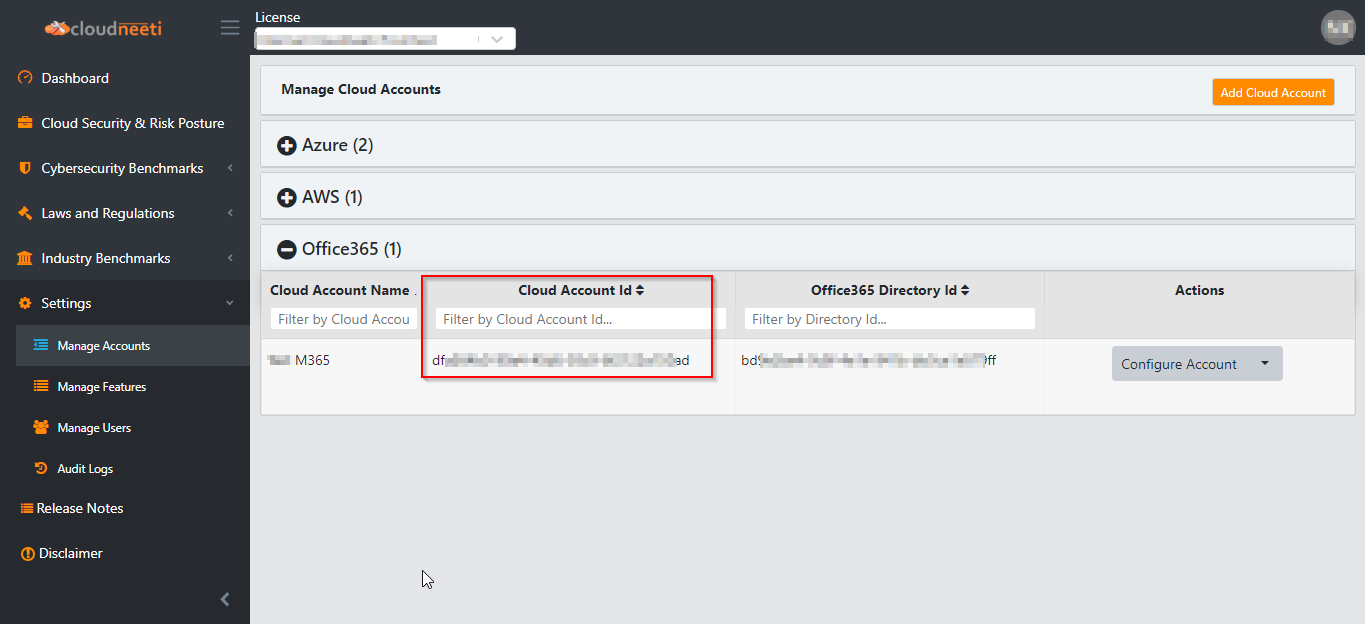
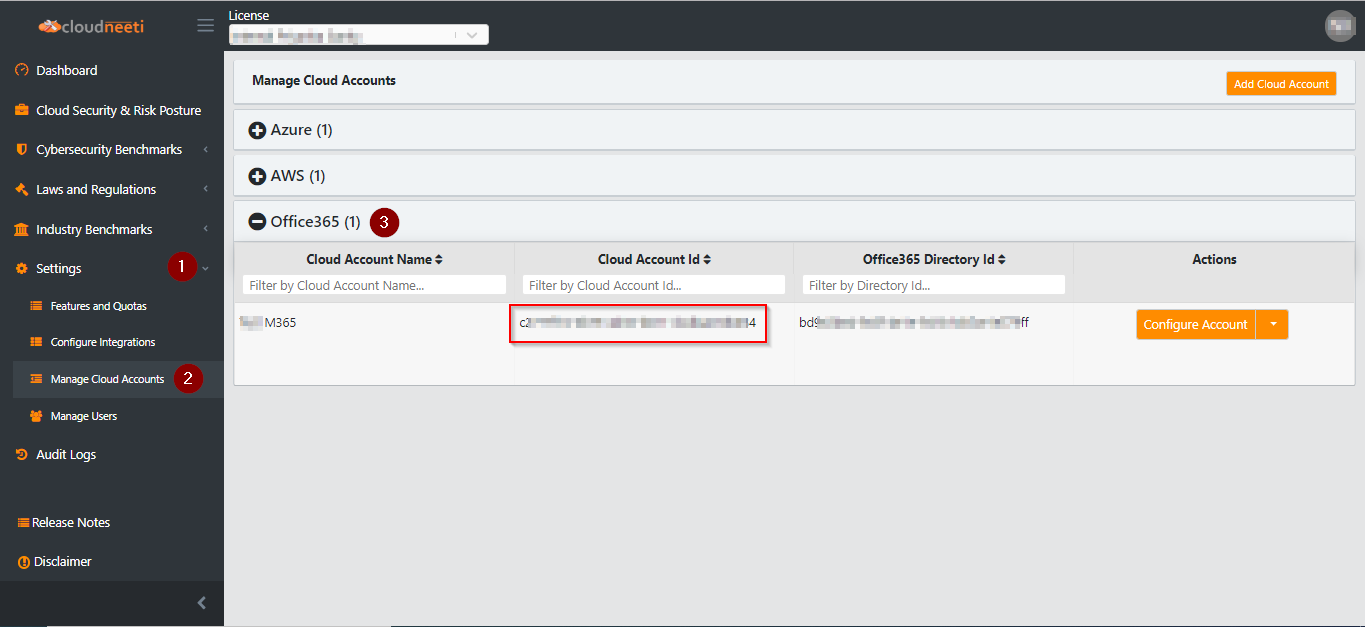
Task 11166 : Update AWS and O365 onboarding documents

diff --git a/docs/onboardingGuide/amazonWebServiceAccounts.md b/docs/onboardingGuide/amazonWebServiceAccounts.md
@@ -36,7 +36,7 @@ AWS **Administrator** role is required for granting Cloudneeti application acces
 entity with the SecurityAudit access policy.`
 
 ## STEP 1: Create an AWS role for Cloudneeti
-The following steps are executed by AWS **Administrator** role. AWS role for Cloudneeti can be created manually or using an automated script. 
+The following steps are executed by AWS **Administrator** role. AWS role for Cloudneeti can be created manually or using an automation script. 
 
 ### Manual
 #### Grant Permissions
@@ -53,7 +53,7 @@ Login to [AWS portal](https://console.aws.amazon.com/) with AWS **Administrator*
 6.	Click **Next**
     ![Create Role](.././images/amazonWebServiceAccounts/Attatch_policies.png#thumbnail)
 7.	Click **Next: Tags**
-8.	Enter details like Role Name, Role description
+8.	Enter details like Role Name as **Cloudneeti-SecurityAudit**, Role description
 9.	Click on **Create role**
      ![Create Role](.././images/amazonWebServiceAccounts/Role_Information.png#thumbnail)
 

diff --git a/docs/onboardingGuide/onboardingOffice365Subscription.md b/docs/onboardingGuide/onboardingOffice365Subscription.md
@@ -330,12 +330,12 @@ Login to Cloudneeti portal as a License Admin.
 
 ##### License id
 
-1. Navigate to **View License** under **Settings**
+1. Navigate to **Features and Quotas** under **Settings**
 2. Copy license ID and paste to notepad.
 	![License id](.././images/onboardingOffice365Subscription/License_Id.png#thumbnail)
 
 ##### Account id
-1. Navigate to **Manage Accounts** in **Settings**
+1. Navigate to **Manage Cloud Accounts** in **Settings**
 2. Copy account ID and paste to notepad.
 	![Manage Accounts](.././images/onboardingOffice365Subscription/Manage_Accounts.png#thumbnail)
 
